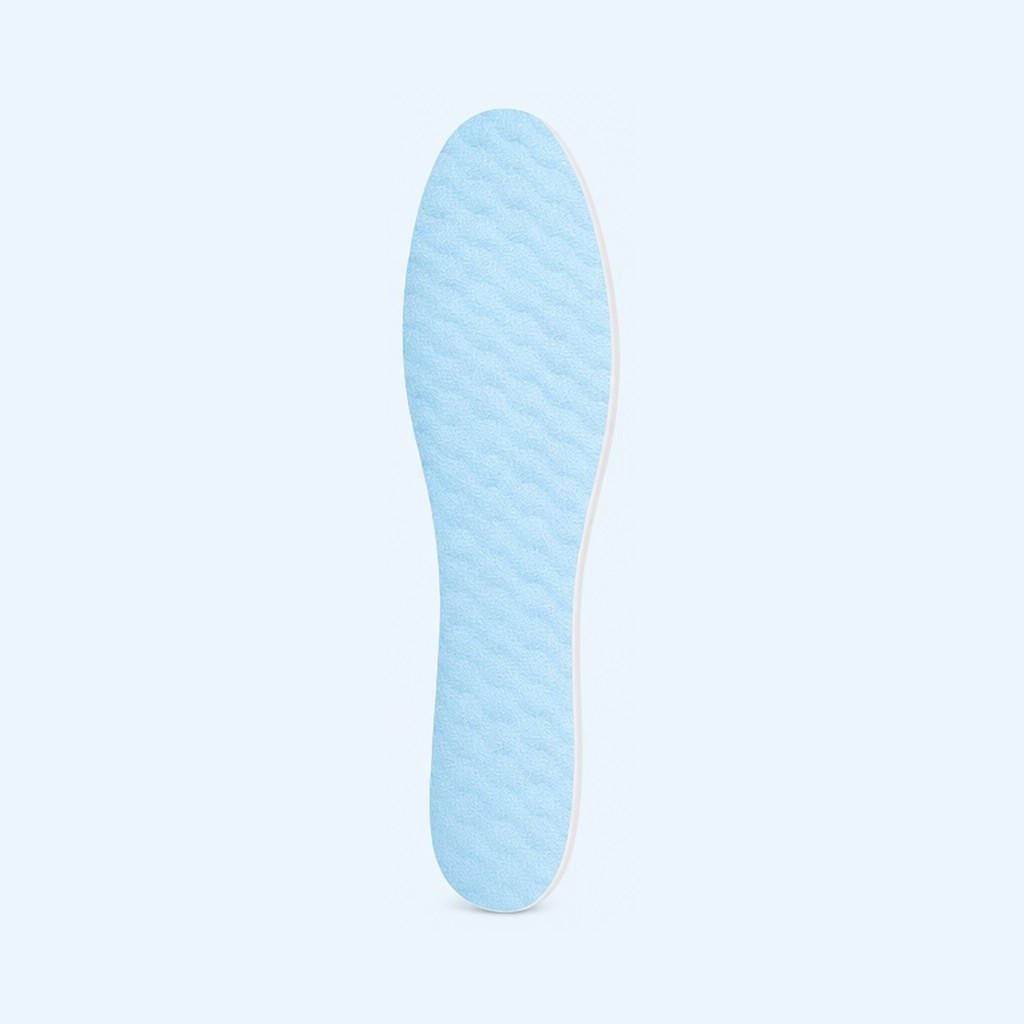
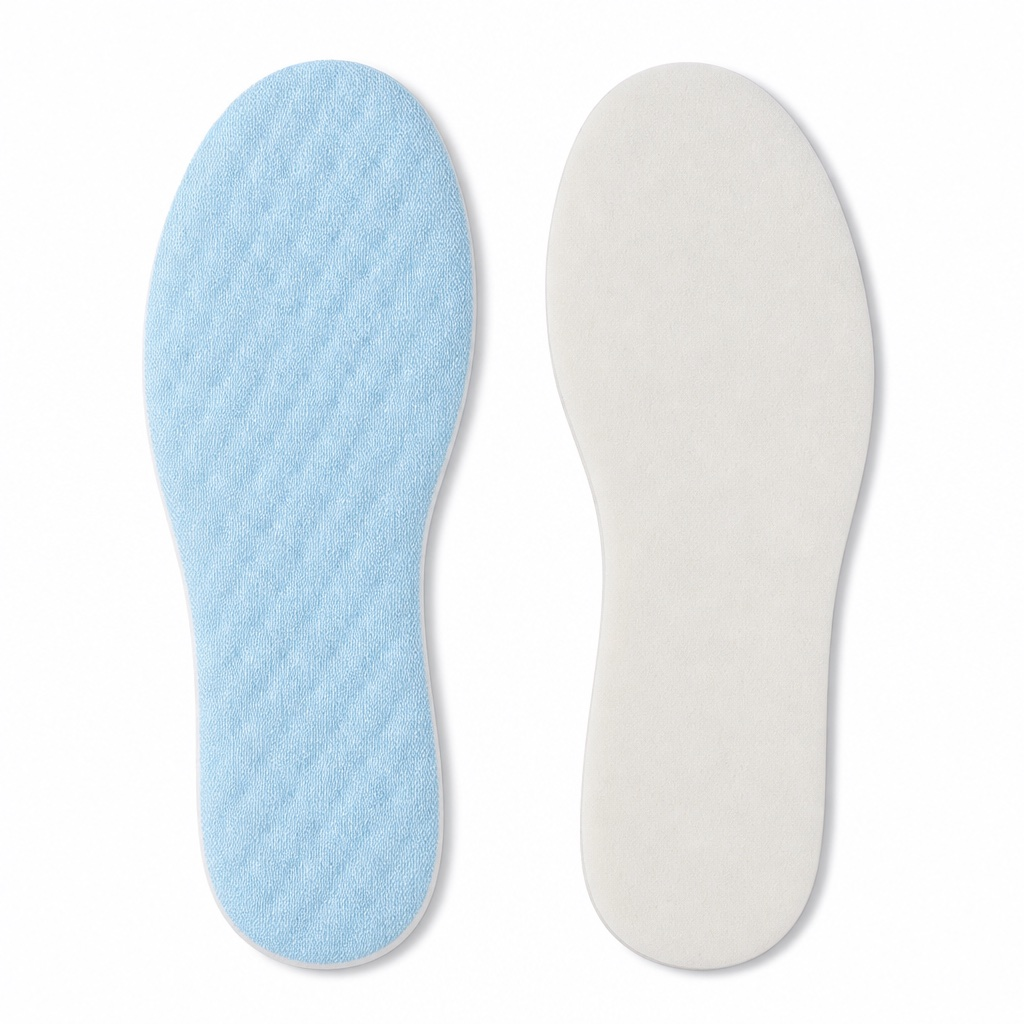
deploy 2026-08-06-1042

diff --git a/lednik-ulosci/index.html b/lednik-ulosci/index.html
@@ -344,7 +344,8 @@ footer .disc{margin-top:12px;font-size:11px;line-height:1.5;text-align:left}
 <section class="gallery">
   <div class="slides" id="slides">
     <img src="assets/hero.jpg" alt="LEDNIK ulošci — sveže i suvo ceo dan">
-    <img src="assets/product.jpg" alt="LEDNIK uložak — tanak, meka gornja strana">
+    <img src="assets/product.jpg" alt="LEDNIK ulošci — par, gornja i donja strana">
+    <img src="assets/lifestyle.jpg" alt="LEDNIK uložak se ubacuje u patiku">
     <img src="assets/benefits.jpg" alt="Zašto baš LEDNIK ulošci">
     <img src="assets/sizes.jpg" alt="LEDNIK ulošci — veličine od 35-36 do 43-44">
     <img src="assets/howto.jpg" alt="Kako se ubacuju LEDNIK ulošci">
